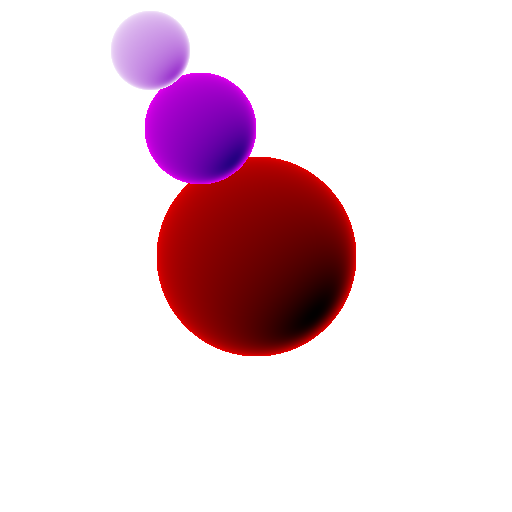
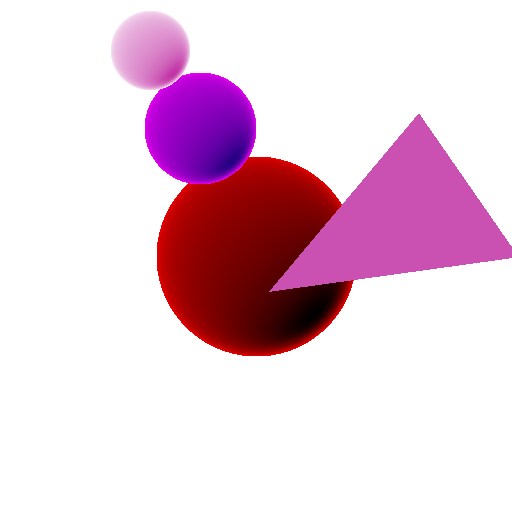
Added triangle geometric. Description: * Added vector projections. * Added vector division. * Added triagle struct. * Implemented Geometrical for Triangle.

Changed region(s): [[0.5312, 0.2188, 1.0, 0.5938], [0.25, 0.0625, 0.375, 0.1875]]

diff --git a/src/geometrical.rs b/src/geometrical.rs
@@ -53,3 +53,68 @@ impl Geometrical for Sphere {
         }
     }
 }
+#[derive(Debug, PartialEq, Copy, Clone)]
+pub struct Triangle {
+    point_a: Vec3f,
+    point_b: Vec3f,
+    point_c: Vec3f,
+    albedo: Rgba<u8>,
+}
+
+impl Triangle {
+    pub fn new(point_a: Vec3f, point_b: Vec3f, point_c: Vec3f, albedo: Rgba<u8>) -> Triangle {
+        Triangle {
+            point_a,
+            point_b,
+            point_c,
+            albedo,
+        }
+    }
+}
+
+impl Geometrical for Triangle {
+    fn intersect_ray(&self, ray: Ray) -> Option<RaycastHit> {
+        // Calculating triangle normal.
+        let triangle_plane_norm =
+            (self.point_b - self.point_a).cross(&(self.point_c - self.point_a));
+
+        let norm_dot_ray_dir = triangle_plane_norm.dot(&ray.direction);
+        //Check if ray and triangle are parallel; If true => No intersection;
+
+        if norm_dot_ray_dir.abs() < 1e-7 {
+            return None;
+        }
+        let d = triangle_plane_norm.dot(&self.point_a);
+        let t = (triangle_plane_norm.dot(&ray.direction) + d) / norm_dot_ray_dir;
+        // If t is less than zero => ray is behind triangle => No intersection;
+        if t < 0.0 {
+            return None;
+        }
+
+        let intersection_point = ray.origin + ray.direction * t;
+
+        // tests if intersection_point is on the left side of each one of the triangle's edges
+        let a = (self.point_b - self.point_a).cross(&(intersection_point - self.point_a));
+        if triangle_plane_norm.dot(&a) < 0.0 {
+            return None;
+        }
+
+        let b = (self.point_c - self.point_b).cross(&(intersection_point - self.point_b));
+        if triangle_plane_norm.dot(&b) < 0.0 {
+            return None;
+        }
+
+        let c = (self.point_a - self.point_c).cross(&(intersection_point - self.point_c));
+        if triangle_plane_norm.dot(&c) < 0.0 {
+            return None;
+        }
+
+        //todo: Fix normal. I think, something goes wrong.
+        let normal = (intersection_point - triangle_plane_norm).normalized();
+        Some(RaycastHit::new(
+            intersection_point,
+            normal,
+            self.albedo,
+        ))
+    }
+}

diff --git a/src/vectors.rs b/src/vectors.rs
@@ -1,4 +1,4 @@
-use std::ops::{Add, Mul, Sub, Neg};
+use std::ops::{Add, Mul, Div, Sub, Neg};
 
 #[derive(Debug, PartialEq, Clone, Copy)]
 pub struct Vec3f {
@@ -71,12 +71,21 @@ impl Vec3f {
         self.x * other.x + self.y * other.y + self.z * other.z
     }
 
-    pub fn cross(self, other: Vec3f) -> Vec3f {
+    pub fn cross(self, other: &Vec3f) -> Vec3f {
         Vec3f {
             x: self.y * other.z - self.z * other.y,
             y: self.z * other.x - self.x * other.z,
             z: self.x * other.y - self.y * other.x,
         }
+    }
+    // comp of other vector onto self (comp_{self}{other})
+    pub fn comp(self, other: &Vec3f) -> f32{
+        self.dot(other)/self.magnitude()
+    }
+
+    // projection of other vector onto self vector (proj_{self}{other})
+    pub fn project(self, other: &Vec3f) -> Vec3f{
+        (self.dot(other)/self.squared_magnitude()) * self
     }
 }
 
@@ -117,5 +126,13 @@ impl Neg for Vec3f{
 
     fn neg(self) -> Vec3f{
         Vec3f::new(-self.x, -self.y, -self.z)
+    }
+}
+
+impl Div for Vec3f{
+    type Output = Vec3f;
+
+    fn div(self, rhs: Vec3f) -> Vec3f{
+        Vec3f::new(self.x/rhs.x, self.y/rhs.y, self.z/rhs.z)
     }
 }

diff --git a/src/main.rs b/src/main.rs
@@ -20,7 +20,6 @@ fn main() {
 }
 
 fn render(width: u32, height: u32) -> image::DynamicImage {
-
     let sphere = Sphere::new(
         Vec3f::new(256.0, 256.0, 256.0),
         100.0,
@@ -39,7 +38,16 @@ fn render(width: u32, height: u32) -> image::DynamicImage {
         Vec3f::new(150.0, 50.0, 30.0),
         40.0,
         Rgba {
-            data: [100, 200, 50, 255],
+            data: [64, 206, 92, 255],
+        },
+    );
+
+    let triangle = Triangle::new(
+        Vec3f::new(256.0, 300.0, 100.0),
+        Vec3f::new(356.0, 156.0, 0.0),
+        Vec3f::new(456.0, 300.0, 0.0),
+        Rgba {
+            data: [64, 206, 92, 255],
         },
     );
     let bg_color = Rgba {
@@ -51,6 +59,7 @@ fn render(width: u32, height: u32) -> image::DynamicImage {
     scene.add_object(&sphere);
     scene.add_object(&sphere2);
     scene.add_object(&sphere3);
+    scene.add_object(&triangle);
 
     scene.render()
 }
